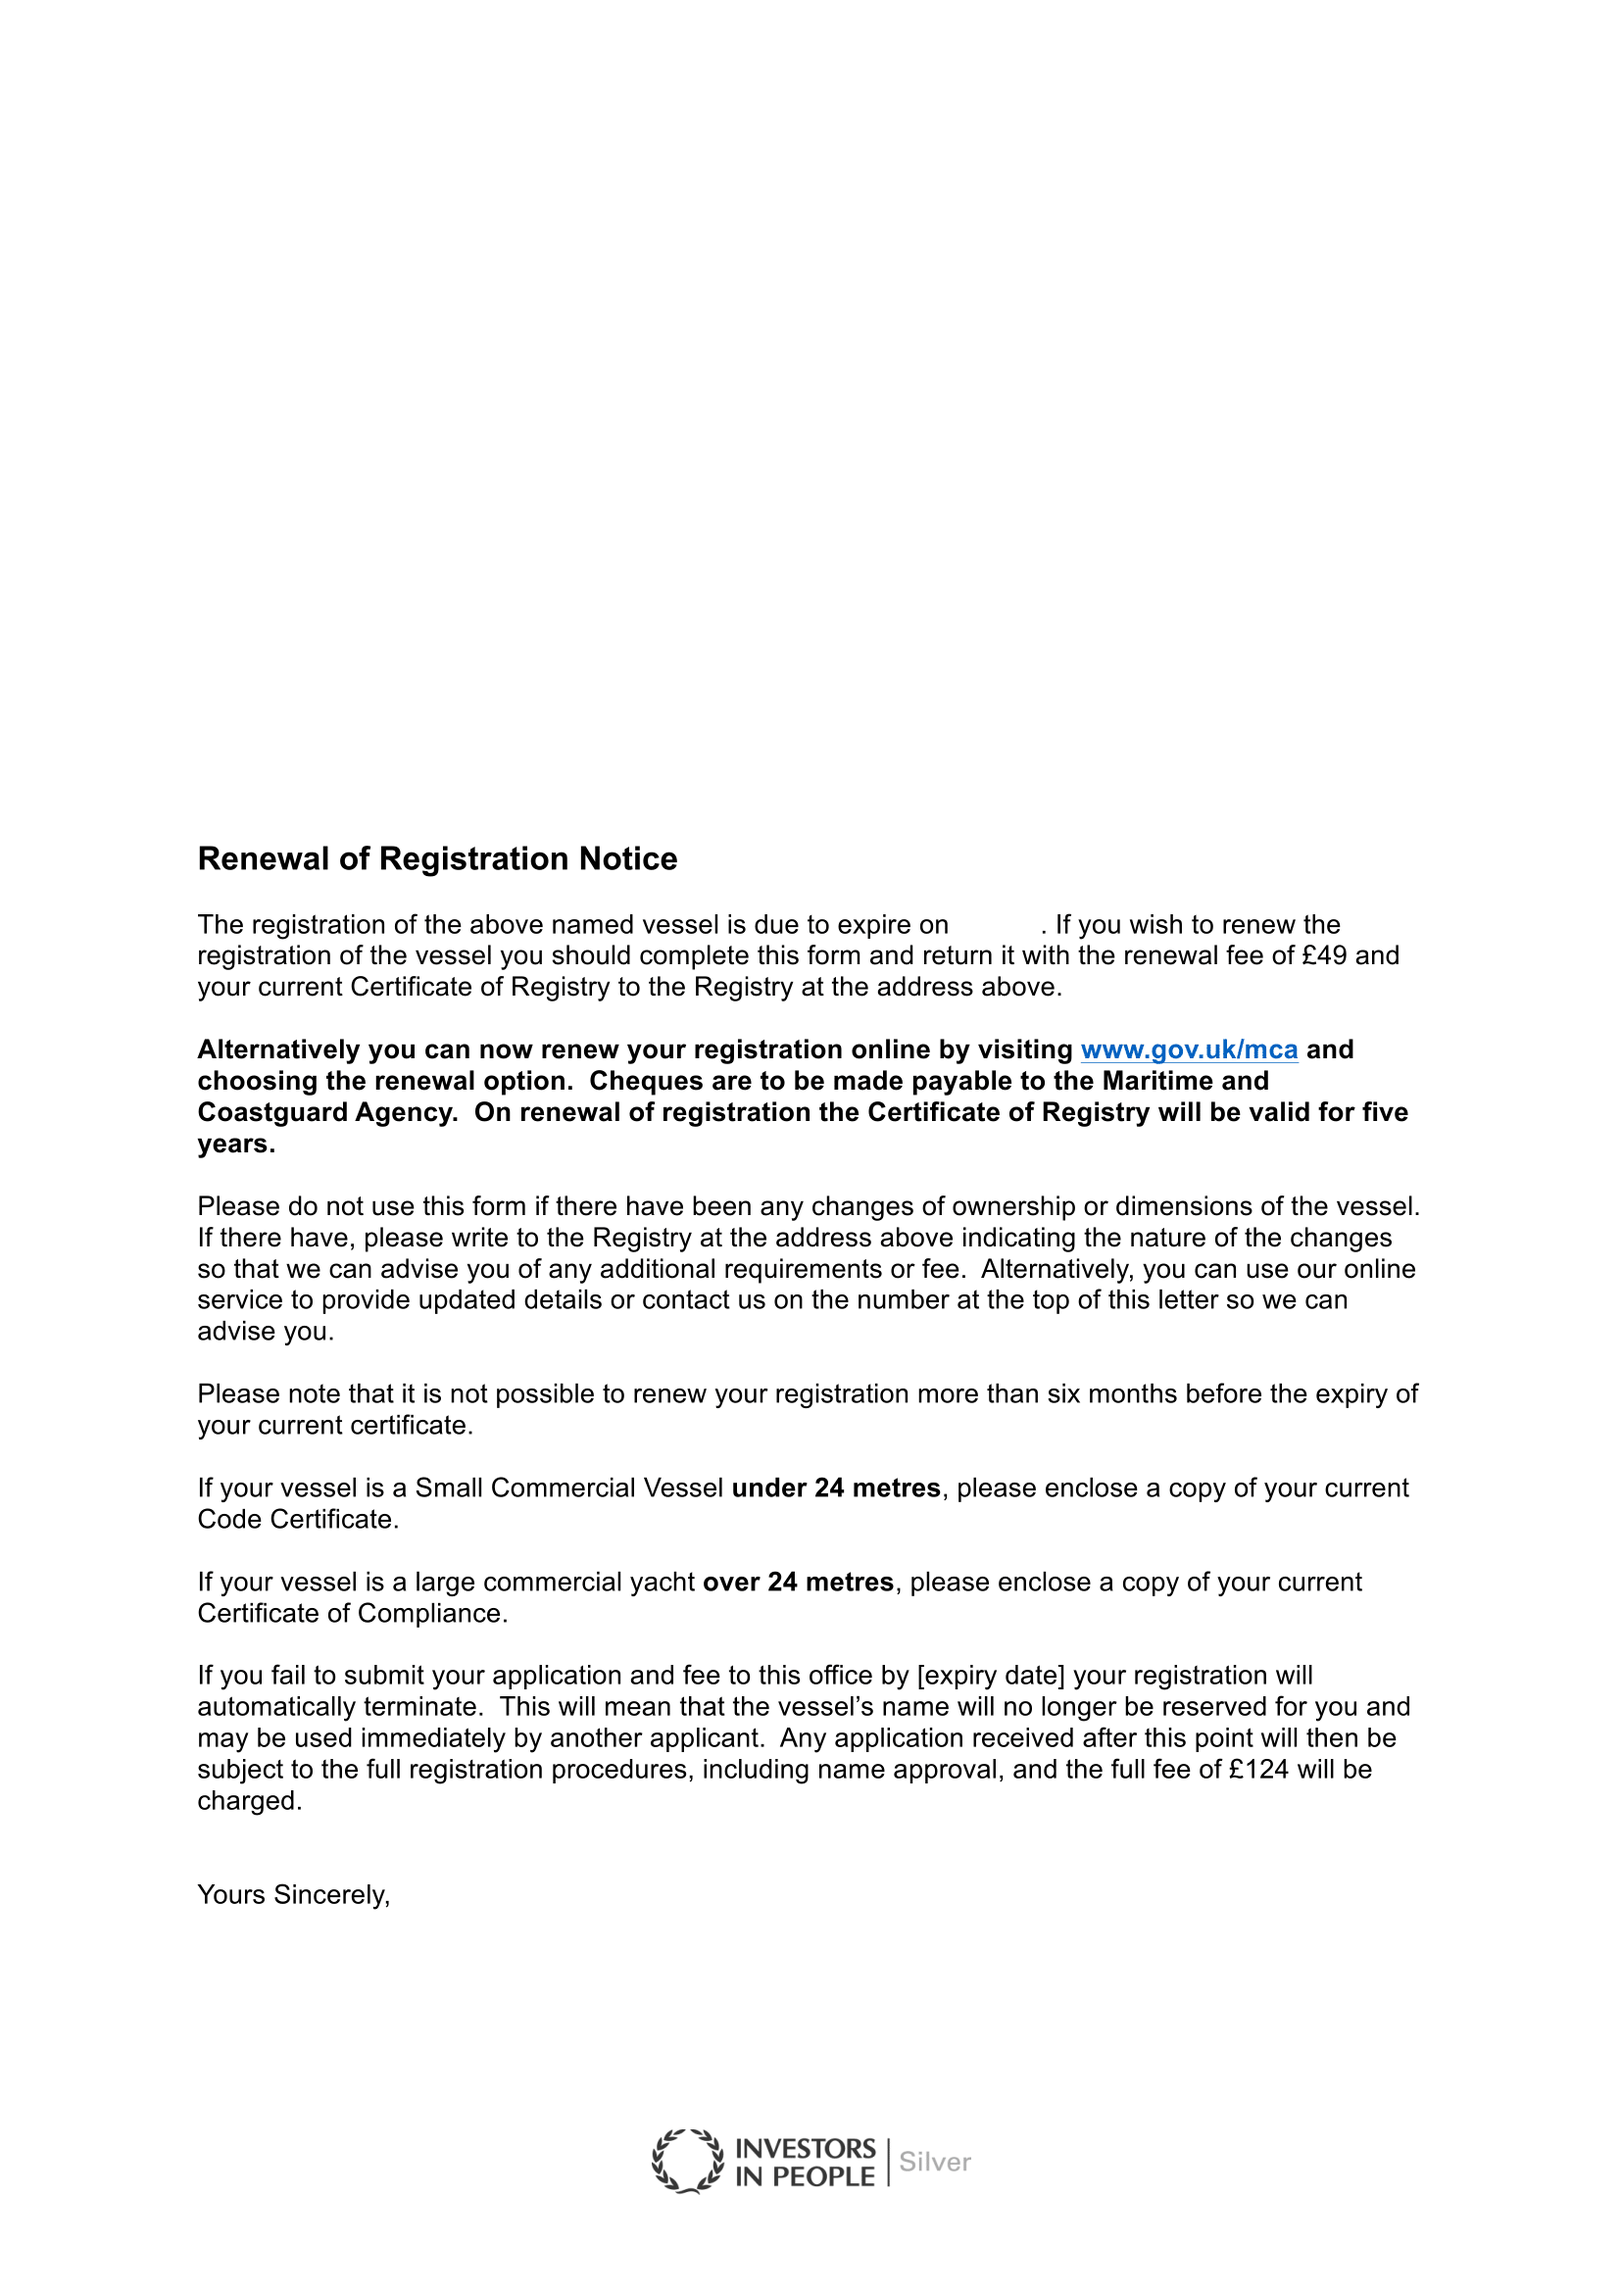
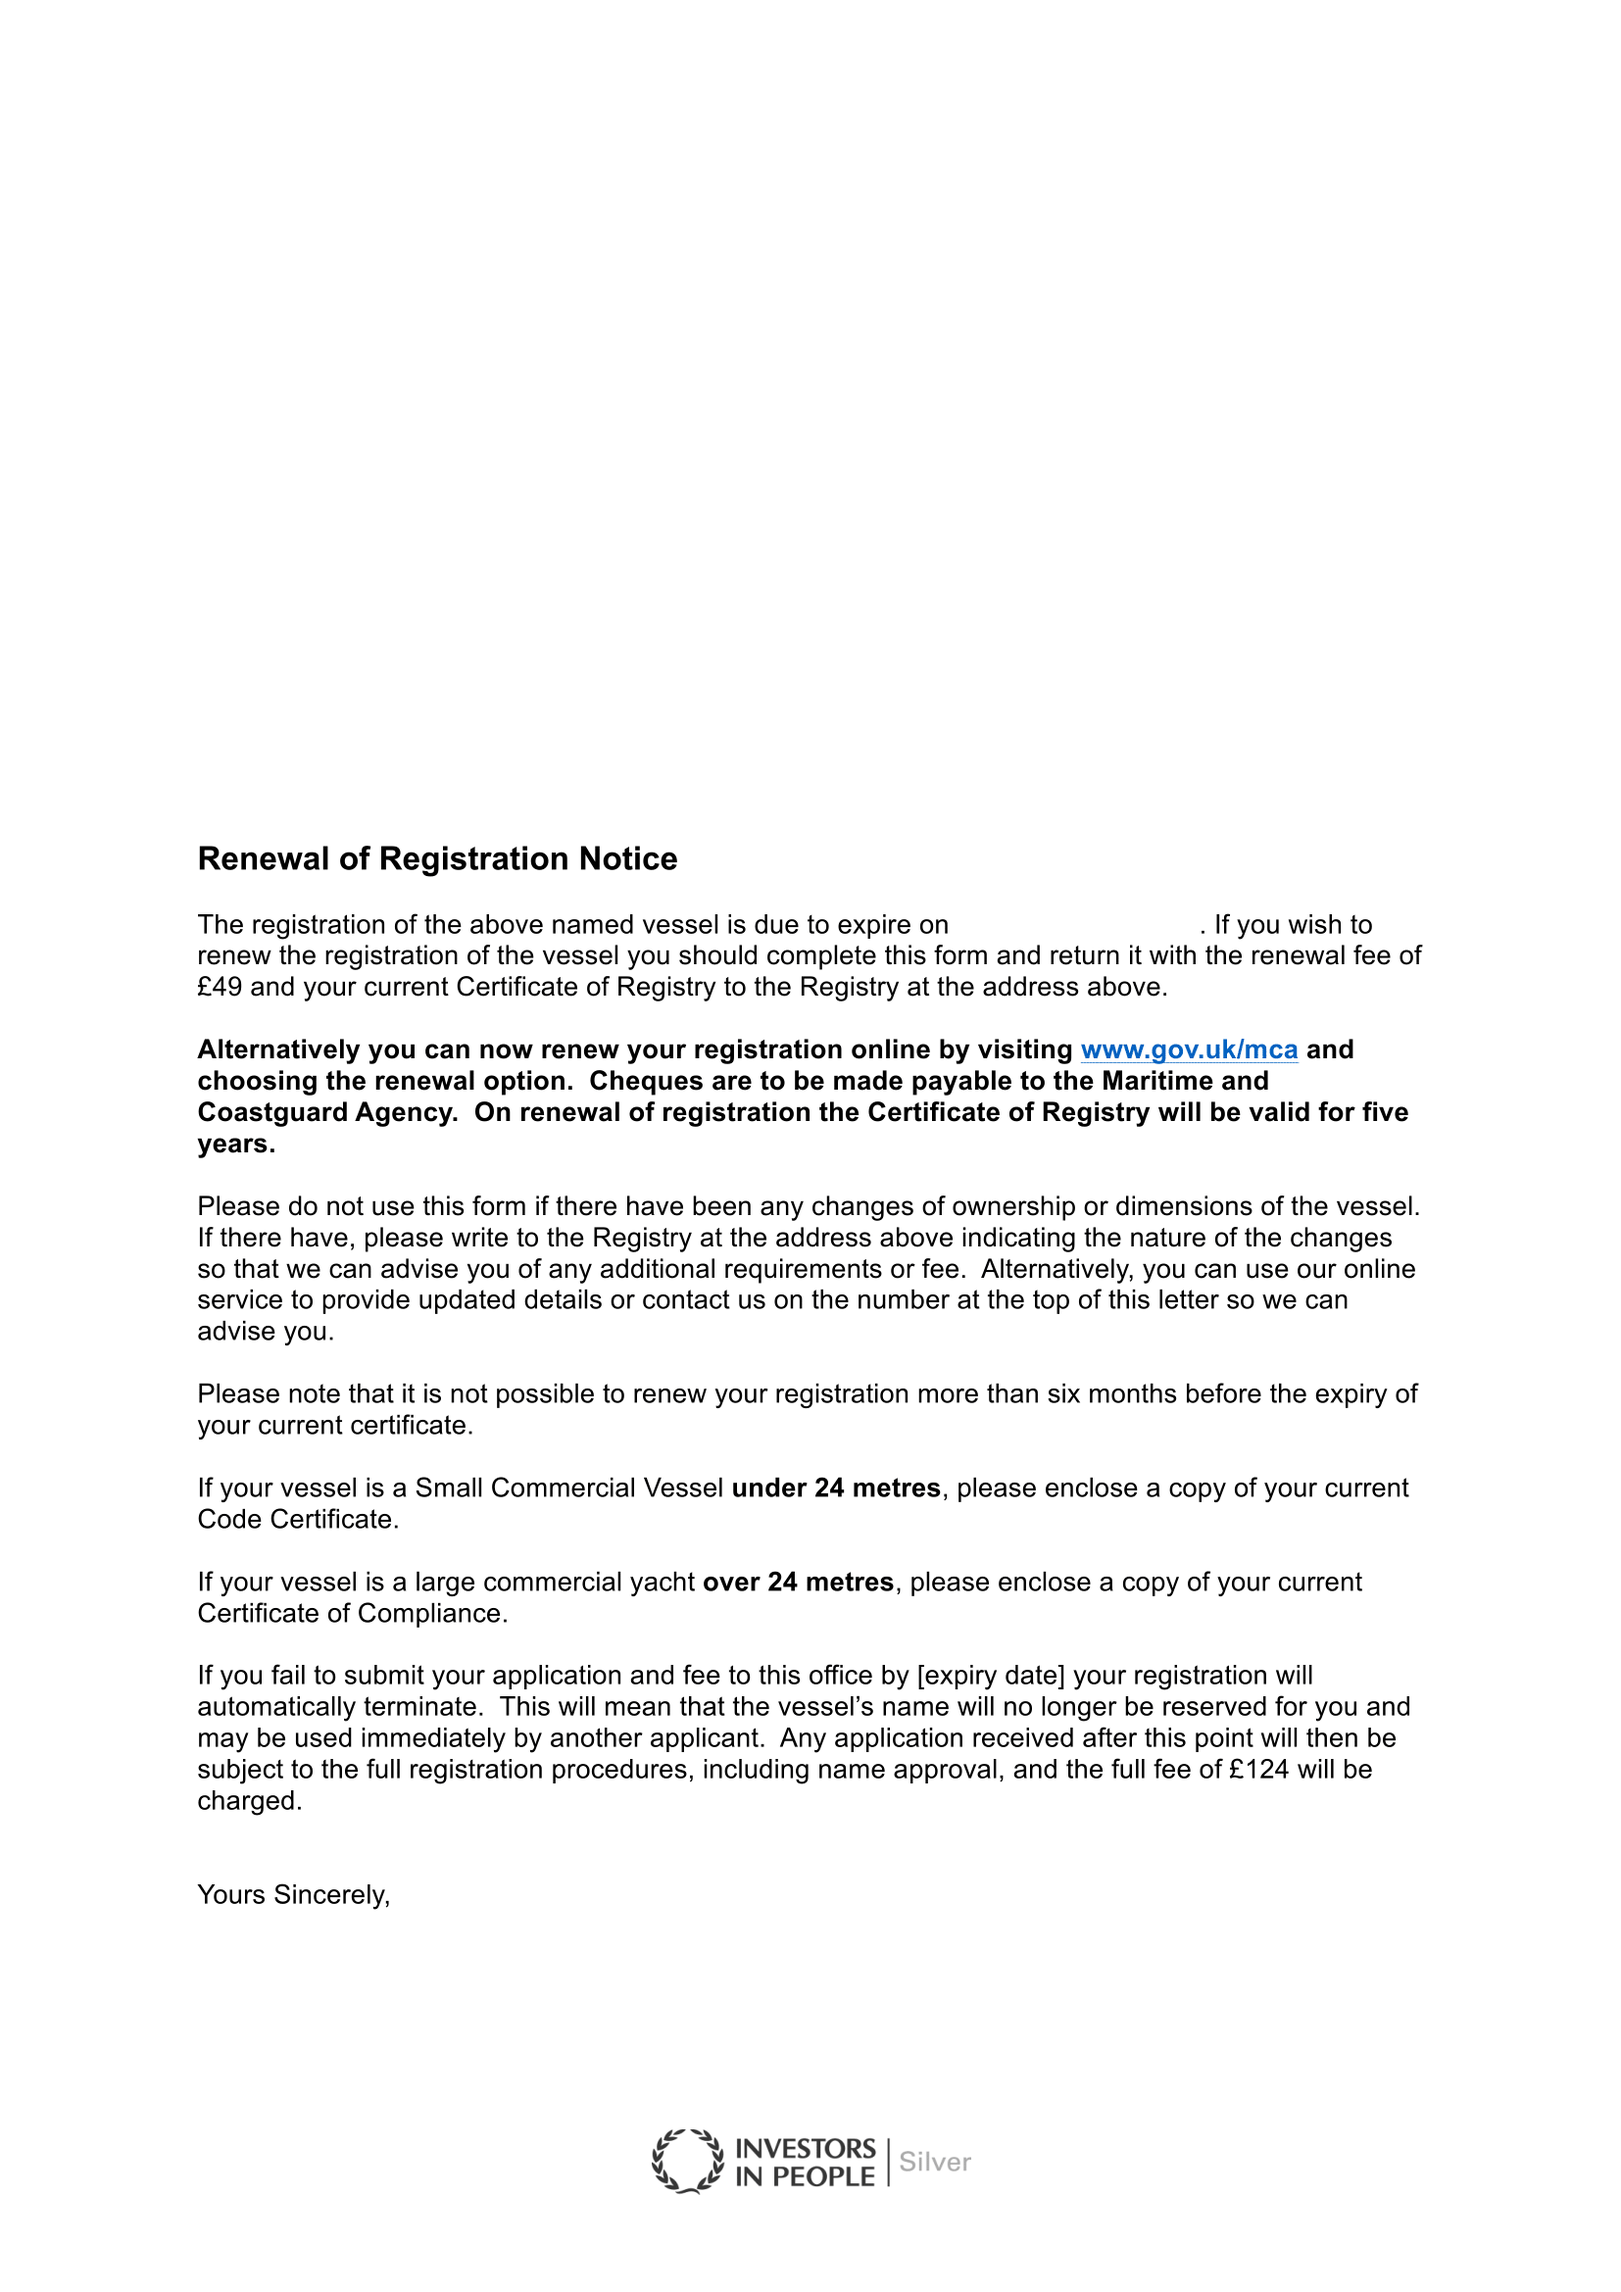
Write details to Part 1 Renewal Letter

Changed region(s): [[0.1233, 0.3745, 0.8634, 0.4369]]

diff --git a/app/services/pdfs/renewal_reminder_letter_writer.rb b/app/services/pdfs/renewal_reminder_letter_writer.rb
@@ -15,8 +15,10 @@ class Pdfs::RenewalReminderLetterWriter
     draw_bg(1)
     init_stationary(@registration.updated_at)
     vessel_name
+    registered_until
     @pdf.start_new_page
     draw_bg(2)
+    details_box
     @pdf.start_new_page
     draw_bg(3)
     @pdf.start_new_page
@@ -34,5 +36,14 @@ class Pdfs::RenewalReminderLetterWriter
   def vessel_name
     set_bold_font
     @pdf.draw_text @vessel[:name], at: [l_margin, 530]
+  end
+
+  def registered_until
+    @pdf.draw_text @registration.registered_until, at: [330, 476]
+  end
+
+  def details_box
+    @pdf.draw_text @vessel[:name], at: [170, 660]
+    @pdf.draw_text @vessel[:reg_no], at: [170, 630]
   end
 end
